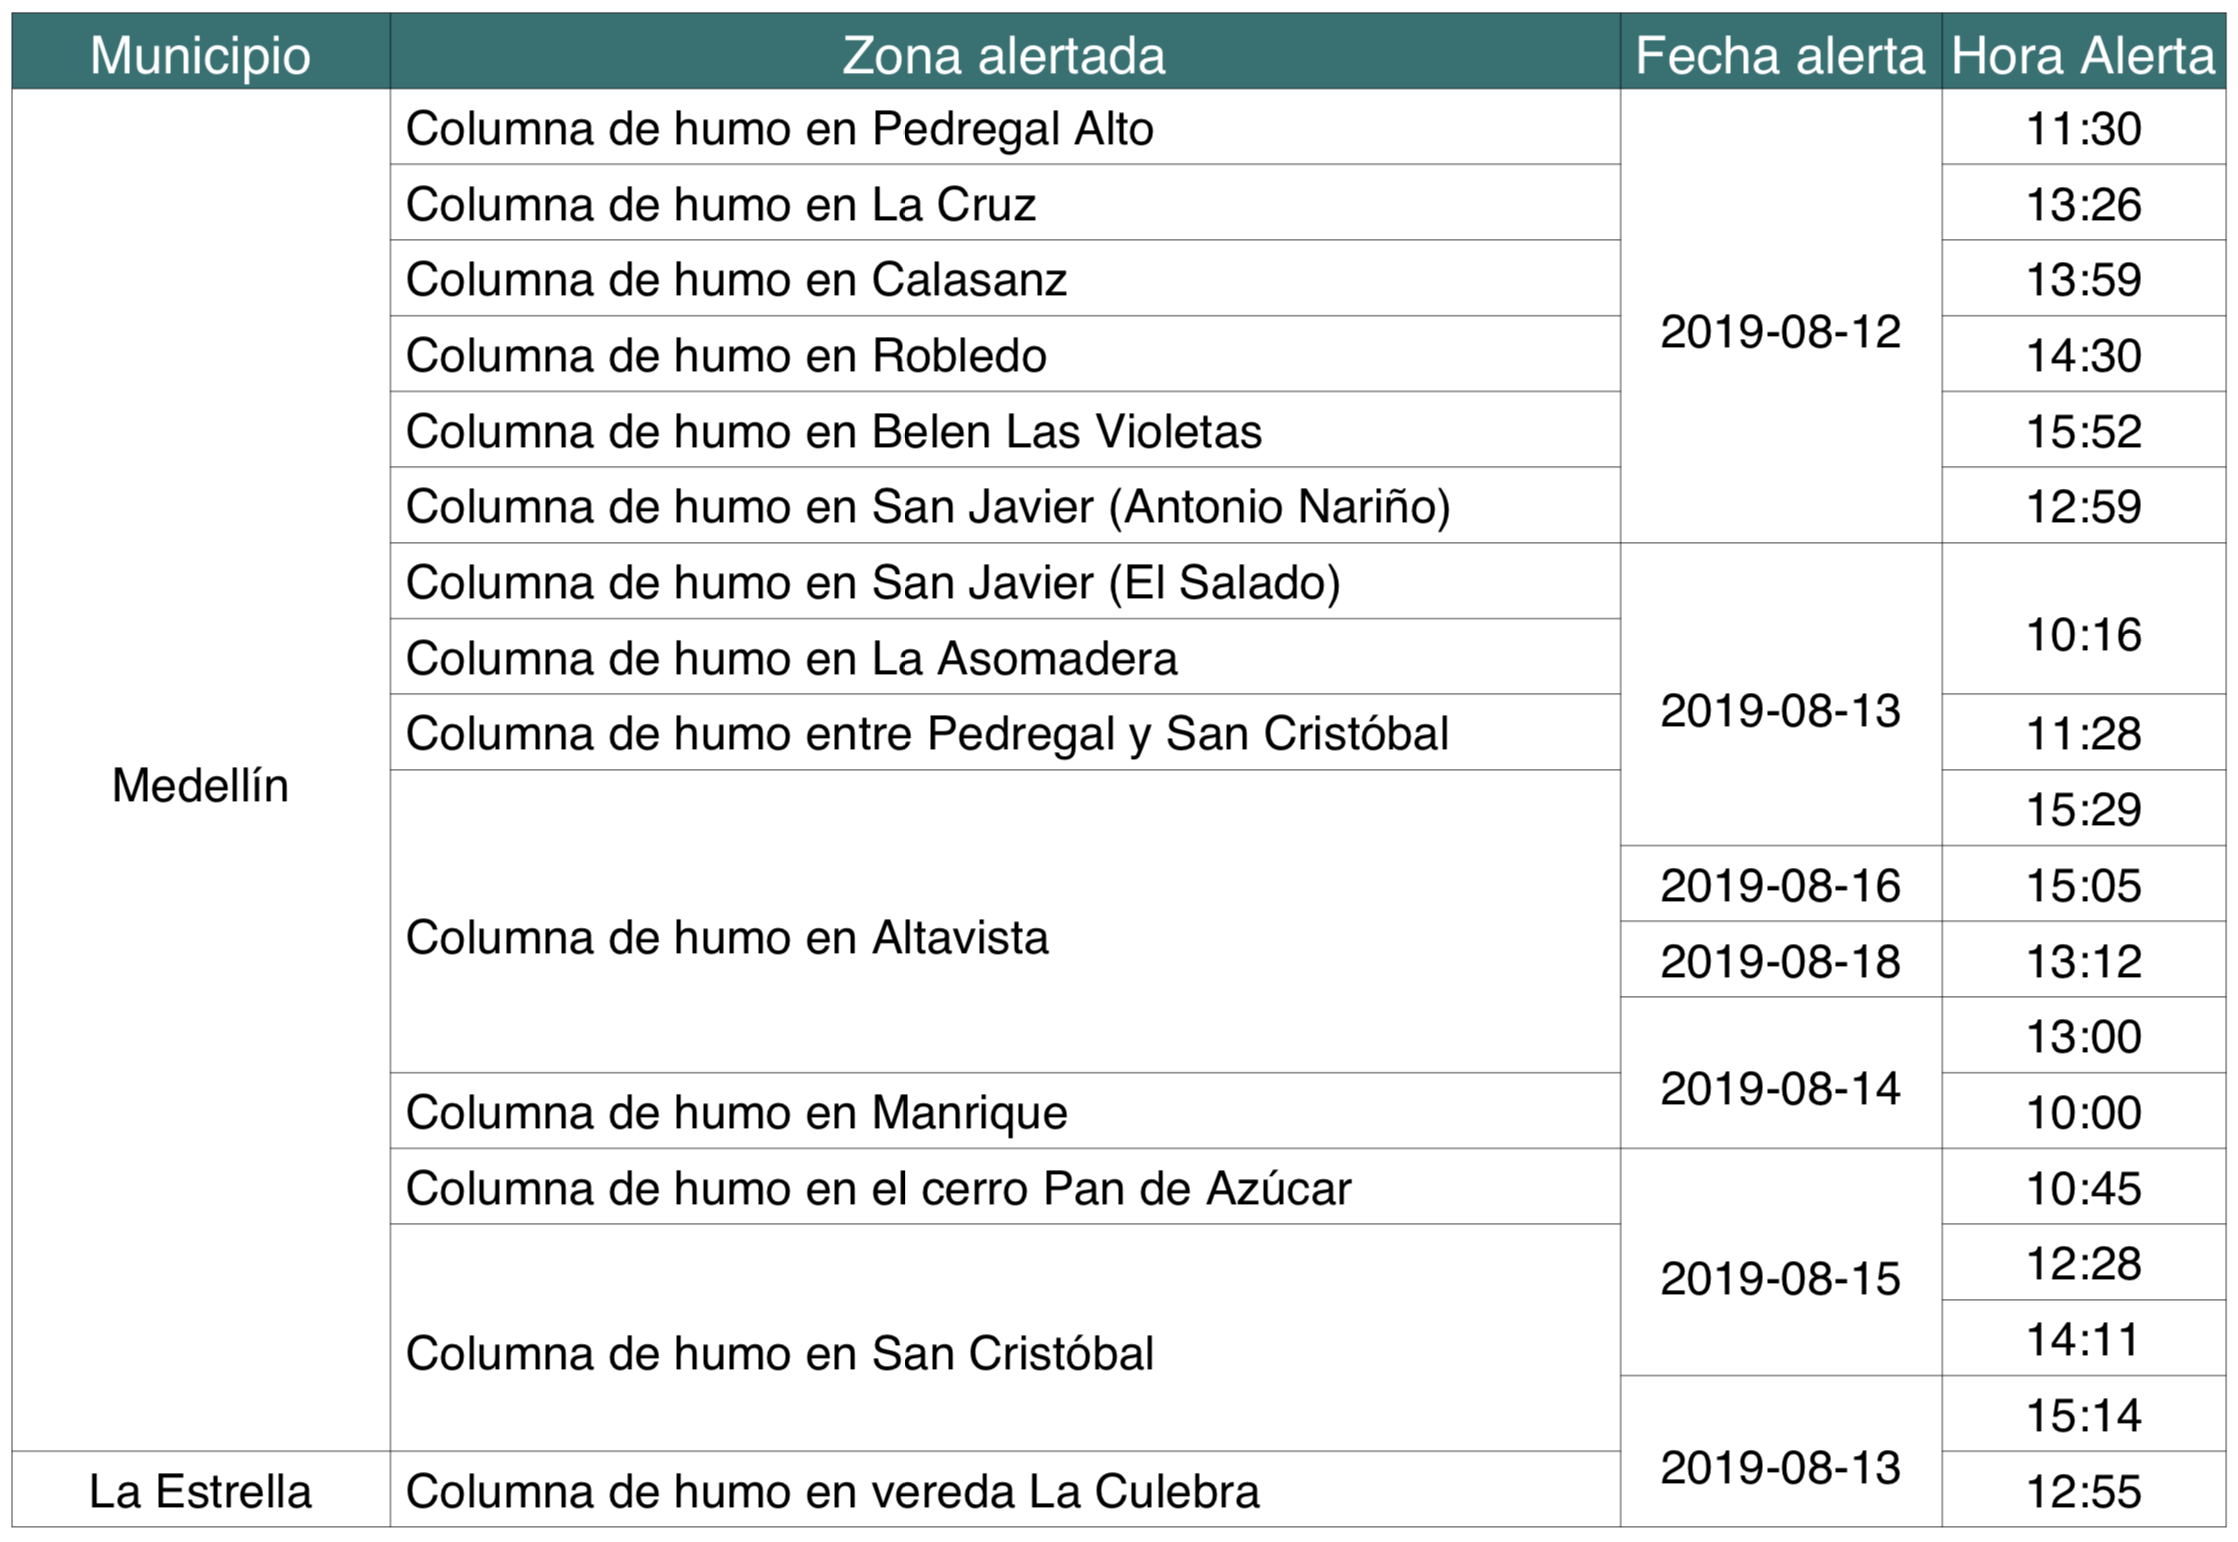
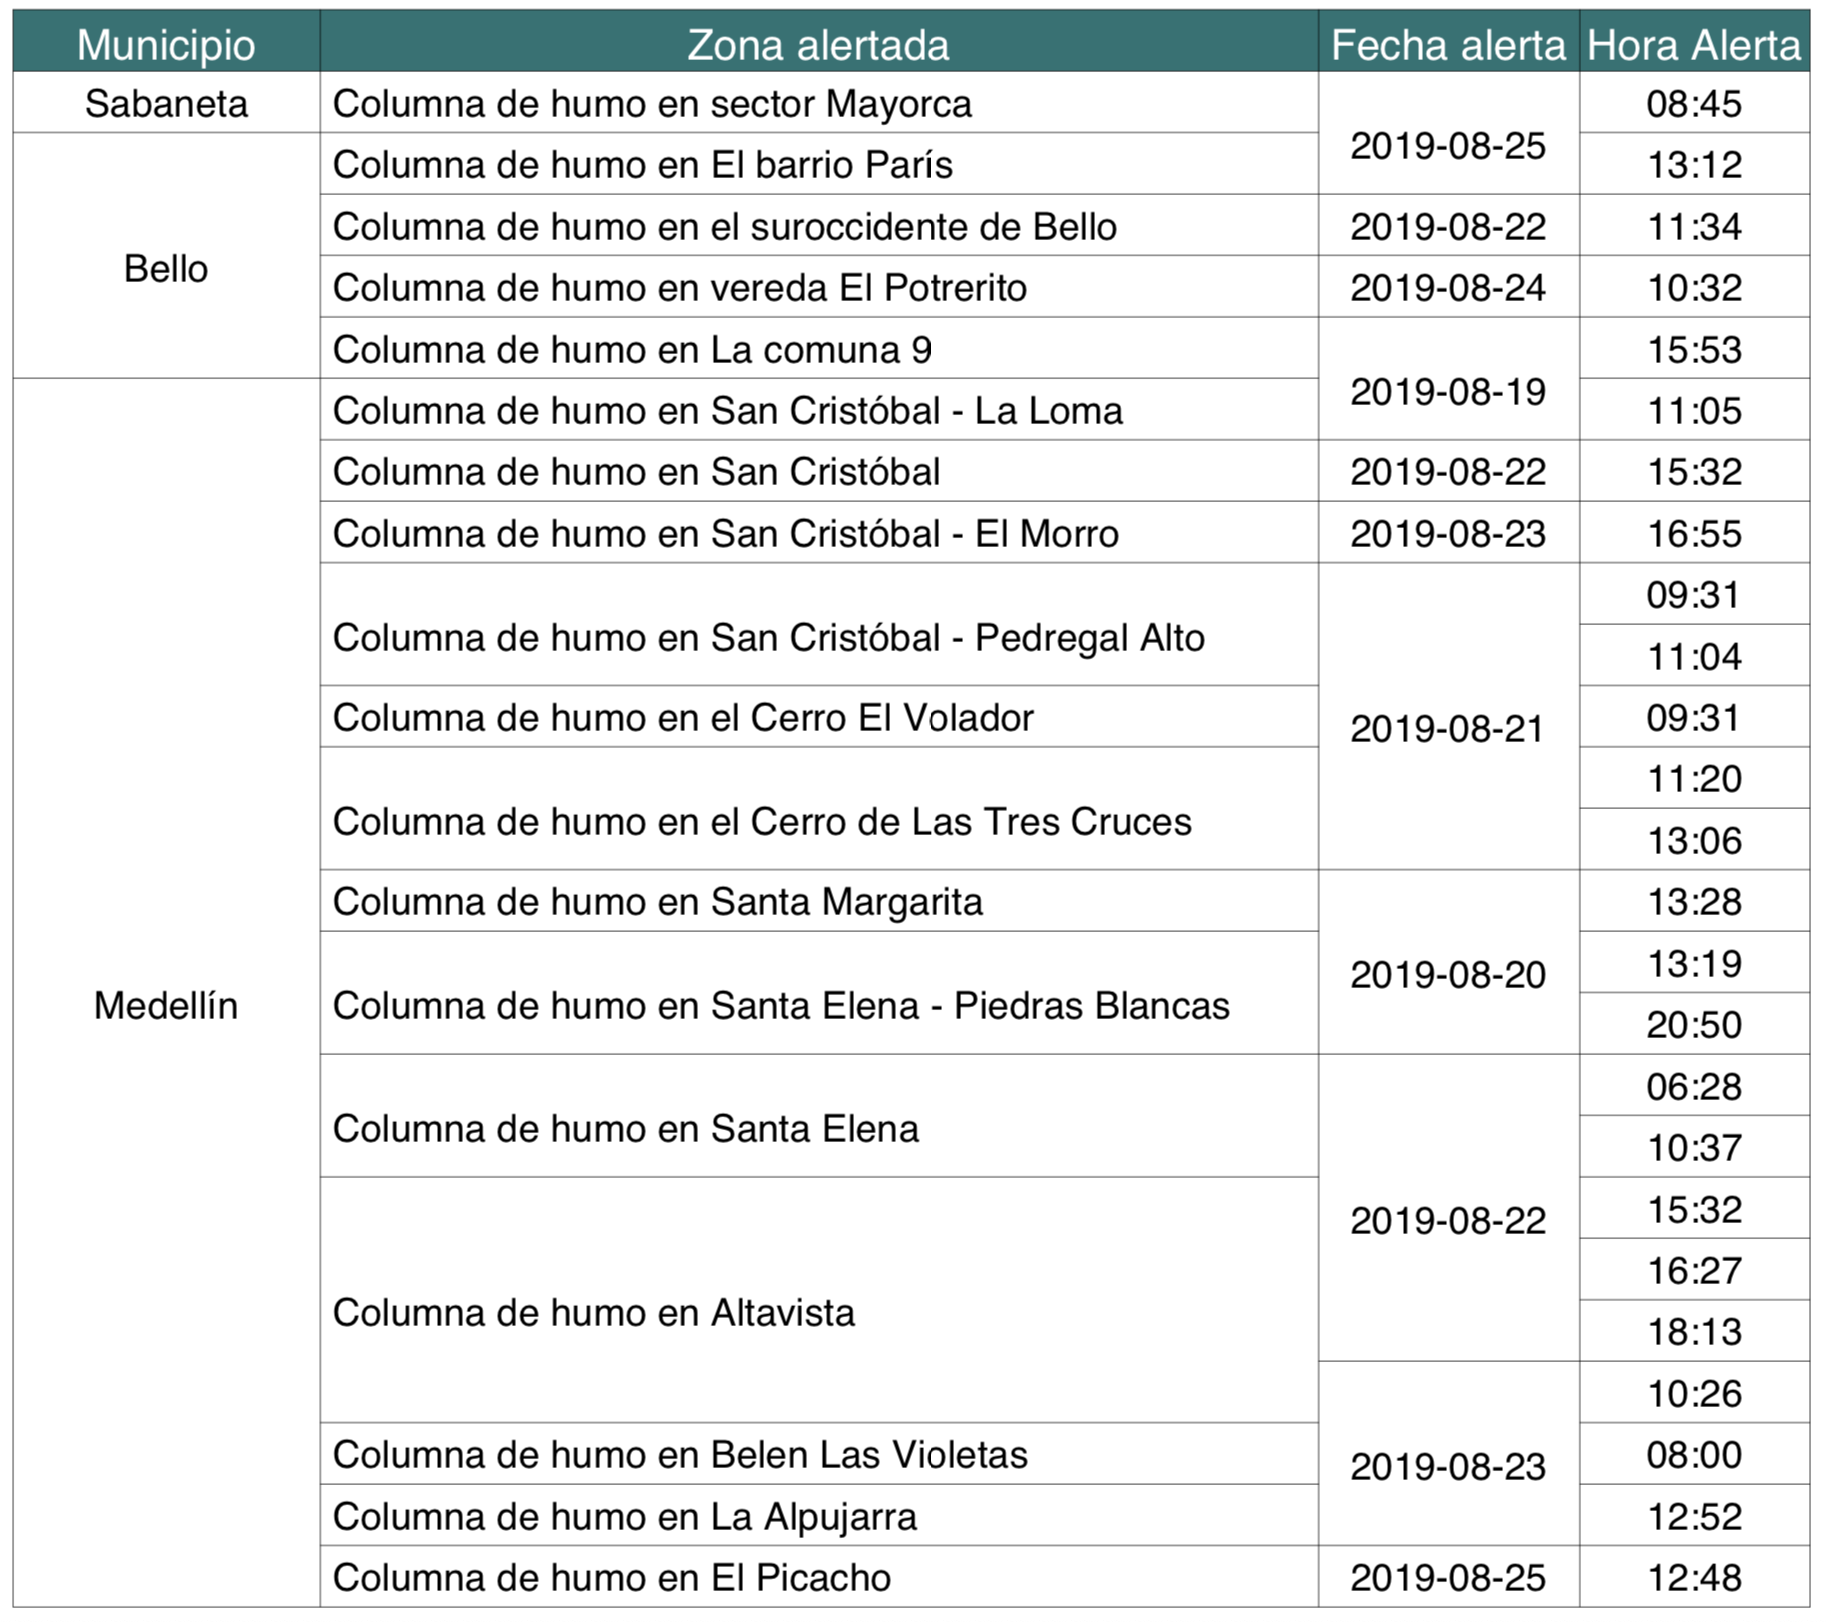
Week August 19th to 25th

diff --git a/Informe/TablaInforme.py b/Informe/TablaInforme.py
@@ -86,26 +86,54 @@ JuanMarica.setFont("Avenir", 24)
 #         [u'Bello',        u'Columna de humo en Nueva Jerusalen'                 ,'2019-08-08'  , '13:39'       ],
 #        ]
 # # week to August 12th to 18th
+# data = [['Municipio',     'Zona alertada'                                       ,'Fecha alerta','Hora Alerta'  ],
+#         [u'Medellín',     u'Columna de humo en Pedregal Alto'                   ,'2019-08-12'  , '11:30'       ],
+#         [u'Medellín',     u'Columna de humo en La Cruz'                         ,'2019-08-12'  , '13:26'       ],
+#         [u'Medellín',     u'Columna de humo en Calasanz'                        ,'2019-08-12'  , '13:59'       ],
+#         [u'Medellín',     u'Columna de humo en Robledo'                         ,'2019-08-12'  , '14:30'       ],
+#         [u'Medellín',     u'Columna de humo en Belen Las Violetas'              ,'2019-08-12'  , '15:52'       ],
+#         [u'Medellín',     u'Columna de humo en San Javier (Antonio Nariño)'     ,'2019-08-12'  , '12:59'       ],
+#         [u'Medellín',     u'Columna de humo en San Javier (El Salado)'          ,'2019-08-13'  , '10:16'       ],
+#         [u'Medellín',     u'Columna de humo en La Asomadera'                    ,'2019-08-13'  , '10:16'       ],
+#         [u'Medellín',     u'Columna de humo entre Pedregal y San Cristóbal'     ,'2019-08-13'  , '11:28'       ],
+#         [u'Medellín',     u'Columna de humo en Altavista'                       ,'2019-08-13'  , '15:29'       ],
+#         [u'Medellín',     u'Columna de humo en Altavista'                       ,'2019-08-16'  , '15:05'       ],
+#         [u'Medellín',     u'Columna de humo en Altavista'                       ,'2019-08-18'  , '13:12'       ],
+#         [u'Medellín',     u'Columna de humo en Altavista'                       ,'2019-08-14'  , '13:00'       ],
+#         [u'Medellín',     u'Columna de humo en Manrique'                        ,'2019-08-14'  , '10:00'       ],
+#         [u'Medellín',     u'Columna de humo en el cerro Pan de Azúcar'          ,'2019-08-15'  , '10:45'       ],
+#         [u'Medellín',     u'Columna de humo en San Cristóbal'                   ,'2019-08-15'  , '12:28'       ],
+#         [u'Medellín',     u'Columna de humo en San Cristóbal'                   ,'2019-08-15'  , '14:11'       ],
+#         [u'Medellín',     u'Columna de humo en San Cristóbal'                   ,'2019-08-13'  , '15:14'       ],
+#         [u'La Estrella',  u'Columna de humo en vereda La Culebra'               ,'2019-08-13'  , '12:55'       ],
+#        ]
+# # week to August 19th to 25th
 data = [['Municipio',     'Zona alertada'                                       ,'Fecha alerta','Hora Alerta'  ],
-        [u'Medellín',     u'Columna de humo en Pedregal Alto'                   ,'2019-08-12'  , '11:30'       ],
-        [u'Medellín',     u'Columna de humo en La Cruz'                         ,'2019-08-12'  , '13:26'       ],
-        [u'Medellín',     u'Columna de humo en Calasanz'                        ,'2019-08-12'  , '13:59'       ],
-        [u'Medellín',     u'Columna de humo en Robledo'                         ,'2019-08-12'  , '14:30'       ],
-        [u'Medellín',     u'Columna de humo en Belen Las Violetas'              ,'2019-08-12'  , '15:52'       ],
-        [u'Medellín',     u'Columna de humo en San Javier (Antonio Nariño)'     ,'2019-08-12'  , '12:59'       ],
-        [u'Medellín',     u'Columna de humo en San Javier (El Salado)'          ,'2019-08-13'  , '10:16'       ],
-        [u'Medellín',     u'Columna de humo en La Asomadera'                    ,'2019-08-13'  , '10:16'       ],
-        [u'Medellín',     u'Columna de humo entre Pedregal y San Cristóbal'     ,'2019-08-13'  , '11:28'       ],
-        [u'Medellín',     u'Columna de humo en Altavista'                       ,'2019-08-13'  , '15:29'       ],
-        [u'Medellín',     u'Columna de humo en Altavista'                       ,'2019-08-16'  , '15:05'       ],
-        [u'Medellín',     u'Columna de humo en Altavista'                       ,'2019-08-18'  , '13:12'       ],
-        [u'Medellín',     u'Columna de humo en Altavista'                       ,'2019-08-14'  , '13:00'       ],
-        [u'Medellín',     u'Columna de humo en Manrique'                        ,'2019-08-14'  , '10:00'       ],
-        [u'Medellín',     u'Columna de humo en el cerro Pan de Azúcar'          ,'2019-08-15'  , '10:45'       ],
-        [u'Medellín',     u'Columna de humo en San Cristóbal'                   ,'2019-08-15'  , '12:28'       ],
-        [u'Medellín',     u'Columna de humo en San Cristóbal'                   ,'2019-08-15'  , '14:11'       ],
-        [u'Medellín',     u'Columna de humo en San Cristóbal'                   ,'2019-08-13'  , '15:14'       ],
-        [u'La Estrella',  u'Columna de humo en vereda La Culebra'               ,'2019-08-13'  , '12:55'       ],
+        [u'Sabaneta',     u'Columna de humo en sector Mayorca'                  ,'2019-08-25'  , '08:45'       ],
+        [u'Bello',        u'Columna de humo en El barrio París'                 ,'2019-08-25'  , '13:12'       ],
+        [u'Bello',        u'Columna de humo en el suroccidente de Bello'        ,'2019-08-22'  , '11:34'       ],
+        [u'Bello',        u'Columna de humo en vereda El Potrerito'             ,'2019-08-24'  , '10:32'       ],
+        [u'Bello',        u'Columna de humo en La comuna 9'                     ,'2019-08-19'  , '15:53'       ],
+        [u'Medellín',     u'Columna de humo en San Cristóbal - La Loma'         ,'2019-08-19'  , '11:05'       ],
+        [u'Medellín',     u'Columna de humo en San Cristóbal'                   ,'2019-08-22'  , '15:32'       ],
+        [u'Medellín',     u'Columna de humo en San Cristóbal - El Morro'        ,'2019-08-23'  , '16:55'       ],
+        [u'Medellín',     u'Columna de humo en San Cristóbal - Pedregal Alto'   ,'2019-08-21'  , '09:31'       ],
+        [u'Medellín',     u'Columna de humo en San Cristóbal - Pedregal Alto'   ,'2019-08-21'  , '11:04'       ],
+        [u'Medellín',     u'Columna de humo en el Cerro El Volador'             ,'2019-08-21'  , '09:31'       ],
+        [u'Medellín',     u'Columna de humo en el Cerro de Las Tres Cruces'     ,'2019-08-21'  , '11:20'       ],
+        [u'Medellín',     u'Columna de humo en el Cerro de Las Tres Cruces'     ,'2019-08-21'  , '13:06'       ],
+        [u'Medellín',     u'Columna de humo en Santa Margarita'                 ,'2019-08-20'  , '13:28'       ],
+        [u'Medellín',     u'Columna de humo en Santa Elena - Piedras Blancas'   ,'2019-08-20'  , '13:19'       ],
+        [u'Medellín',     u'Columna de humo en Santa Elena - Piedras Blancas'   ,'2019-08-20'  , '20:50'       ],
+        [u'Medellín',     u'Columna de humo en Santa Elena'                     ,'2019-08-22'  , '06:28'       ],
+        [u'Medellín',     u'Columna de humo en Santa Elena'                     ,'2019-08-22'  , '10:37'       ],
+        [u'Medellín',     u'Columna de humo en Altavista'                       ,'2019-08-22'  , '15:32'       ],
+        [u'Medellín',     u'Columna de humo en Altavista'                       ,'2019-08-22'  , '16:27'       ],
+        [u'Medellín',     u'Columna de humo en Altavista'                       ,'2019-08-22'  , '18:13'       ],
+        [u'Medellín',     u'Columna de humo en Altavista'                       ,'2019-08-23'  , '10:26'       ],
+        [u'Medellín',     u'Columna de humo en Belen Las Violetas'              ,'2019-08-23'  , '08:00'       ],
+        [u'Medellín',     u'Columna de humo en La Alpujarra'                    ,'2019-08-23'  , '12:52'       ],
+        [u'Medellín',     u'Columna de humo en El Picacho'                      ,'2019-08-25'  , '12:48'       ],
        ]
 
 
@@ -125,27 +153,37 @@ t.setStyle(TableStyle([('INNERGRID', (0,0), (-1,-1), 0.25, colors.black),\
                        ('FONTSIZE', (0, 1), (-1, -1), 18),\
                        ('TEXTCOLOR',(0, 0),(-1,0),colors.white),\
                        # # # Municipio
-                       ('SPAN',   (0,1), (0,18)),\
-                       ('VALIGN', (0,1), (0,18),'MIDDLE'),\
+                       ('SPAN',   (0,2), (0,5)),\
+                       ('VALIGN', (0,2), (0,5),'MIDDLE'),\
+                       ('SPAN',   (0,6), (0,25)),\
+                       ('VALIGN', (0,6), (0,25),'MIDDLE'),\
                        # # # zona
-                       ('SPAN',   (1,10), (1,13)),\
-                       ('VALIGN', (1,10), (1,13),'MIDDLE'),\
-                       ('SPAN',   (1,16), (1,18)),\
-                       ('VALIGN', (1,16), (1,18),'MIDDLE'),\
+                       ('SPAN',   (1,9), (1,10)),\
+                       ('VALIGN', (1,9), (1,10),'MIDDLE'),\
+                       ('SPAN',   (1,12), (1,13)),\
+                       ('VALIGN', (1,12), (1,13),'MIDDLE'),\
+                       ('SPAN',   (1,15), (1,16)),\
+                       ('VALIGN', (1,15), (1,16),'MIDDLE'),\
+                       ('SPAN',   (1,17), (1,18)),\
+                       ('VALIGN', (1,17), (1,18),'MIDDLE'),\
+                       ('SPAN',   (1,19), (1,22)),\
+                       ('VALIGN', (1,19), (1,22),'MIDDLE'),\
                        # # # # # fecha
-                       ('SPAN',   (2,1), (2,6)),\
-                       ('VALIGN', (2,1), (2,6),'MIDDLE'),\
-                       ('SPAN',   (2,7), (2,10)),\
-                       ('VALIGN', (2,7), (2,10),'MIDDLE'),\
-                       ('SPAN',   (2,13),(2,14)),\
-                       ('VALIGN', (2,13),(2,14),'MIDDLE'),\
-                       ('SPAN',   (2,15),(2,17)),\
-                       ('VALIGN', (2,15),(2,17),'MIDDLE'),\
-                       ('SPAN',   (2,18),(2,19)),\
-                       ('VALIGN', (2,18),(2,19),'MIDDLE'),\
+                       ('SPAN',   (2,1), (2,2)),\
+                       ('VALIGN', (2,1), (2,2),'MIDDLE'),\
+                       ('SPAN',   (2,5), (2,6)),\
+                       ('VALIGN', (2,5), (2,6),'MIDDLE'),\
+                       ('SPAN',   (2,9),(2,13)),\
+                       ('VALIGN', (2,9),(2,13),'MIDDLE'),\
+                       ('SPAN',   (2,14),(2,16)),\
+                       ('VALIGN', (2,14),(2,16),'MIDDLE'),\
+                       ('SPAN',   (2,17),(2,21)),\
+                       ('VALIGN', (2,17),(2,21),'MIDDLE'),\
+                       ('SPAN',   (2,22),(2,24)),\
+                       ('VALIGN', (2,22),(2,24),'MIDDLE'),\
                        # # hora
-                       ('SPAN',   (3,7), (3,8)),\
-                       ('VALIGN', (3,7), (3,8),'MIDDLE'),\
+                       # ('SPAN',   (3,7), (3,8)),\
+                       # ('VALIGN', (3,7), (3,8),'MIDDLE'),\
                         ]))
 
 
